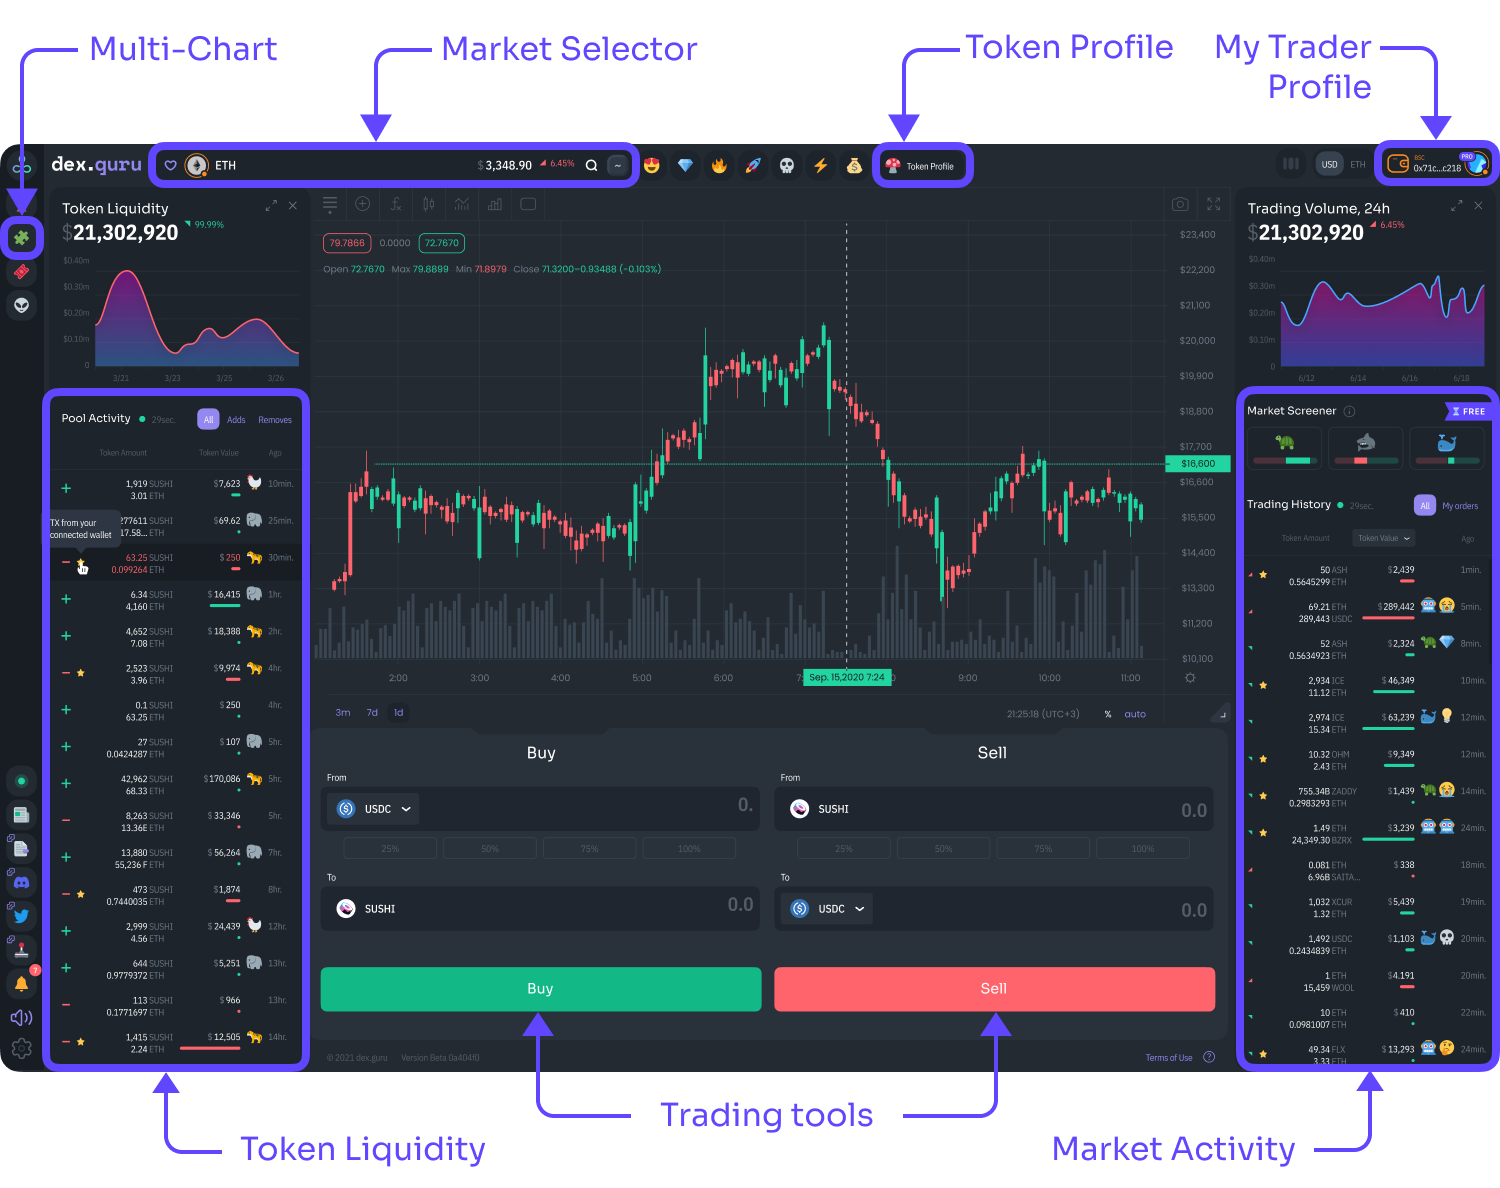
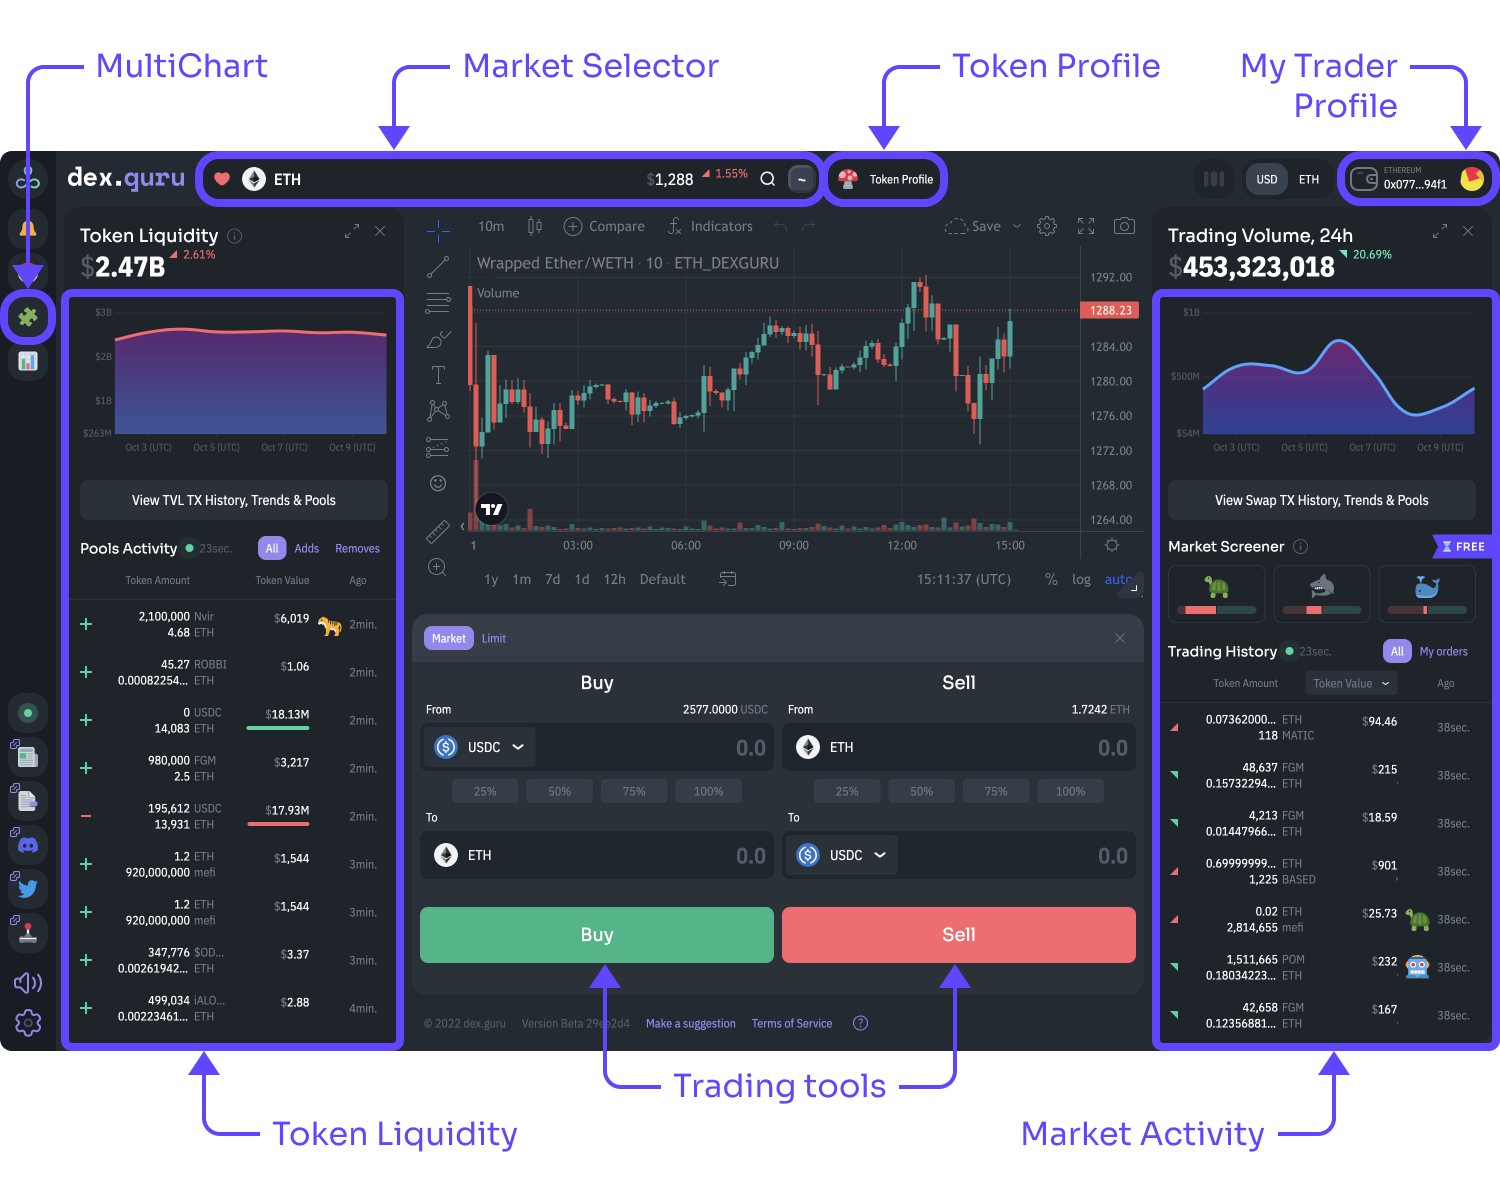
GitBook: [#298] No subject

diff --git a/general/how-to/connect-wallet.md b/general/how-to/connect-wallet.md
@@ -10,7 +10,7 @@ DexGuru is a fully non-custodial platform, so the assets in your wallet are alwa
 
 Click on a wallet icon at the top right corner&#x20;
 
-![](<../../.gitbook/assets/Connect wallet 001.png>)
+<figure><img src="../../.gitbook/assets/001.png" alt=""><figcaption></figcaption></figure>
 
 Choose Metamask&#x20;
 
@@ -22,7 +22,7 @@ We use Signature Requests for authentication. By signing it, you prove that you 
 
 All set:&#x20;
 
-![](<../../.gitbook/assets/Connect wallet 004.png>)
+<figure><img src="../../.gitbook/assets/004.png" alt=""><figcaption></figcaption></figure>
 
 ### WalletConnect
 
@@ -30,7 +30,7 @@ All set:&#x20;
 
 Click on a wallet icon at the top right corner&#x20;
 
-![](<../../.gitbook/assets/Connect wallet 005.png>)
+<figure><img src="../../.gitbook/assets/005.png" alt=""><figcaption></figcaption></figure>
 
 Choose Walletconnect&#x20;
 
@@ -44,7 +44,7 @@ Scan QR code from your screen with a WalletConnect-compatible wallet, and confir
 
 All set:&#x20;
 
-![](<../../.gitbook/assets/Connect wallet 008.png>)
+<figure><img src="../../.gitbook/assets/008 (1).png" alt=""><figcaption></figcaption></figure>
 
 
 

diff --git a/general/features/multi-chart.md b/general/features/multi-chart.md
@@ -4,7 +4,7 @@ description: Analyze and customize multiple token charts inside just one tab.
 
 # Multi-Chart
 
-<figure><img src="../../.gitbook/assets/001.png" alt=""><figcaption></figcaption></figure>
+<figure><img src="../../.gitbook/assets/001 (2).png" alt=""><figcaption></figcaption></figure>
 
 To **open Multi-Chart**, click on the puzzle 🧩 icon in the left navbar.
 
@@ -20,13 +20,13 @@ To **add more charts to the page**, click the “+Add Chart” button in the top
 
 **Group charts together** and name them.
 
-<figure><img src="../../.gitbook/assets/004.png" alt=""><figcaption></figcaption></figure>
+<figure><img src="../../.gitbook/assets/004 (1).png" alt=""><figcaption></figcaption></figure>
 
 
 
 **Create a new group** without losing old group settings.
 
-<figure><img src="../../.gitbook/assets/005.png" alt=""><figcaption></figcaption></figure>
+<figure><img src="../../.gitbook/assets/005 (2).png" alt=""><figcaption></figcaption></figure>
 
 
 

diff --git a/general/how-to/see-my-wallets-balance.md b/general/how-to/see-my-wallets-balance.md
@@ -37,7 +37,7 @@ Wallets like MetaMask display a limited list of standard token balances but do n
 
 Go to your Token Holdings, find the token you want to add to your wallet, and press it. Copy the Contract Address. You will need to add it to your wallet.
 
-![](<../../.gitbook/assets/004 (1).png>)
+![](<../../.gitbook/assets/004 (1) (1).png>)
 
 
 

diff --git a/general/features/trading-history.md b/general/features/trading-history.md
@@ -21,5 +21,5 @@ If we have enough data about the wallet that a trader used, we will add an icon 
 🤖 - Trader with 1000+ TXs in the last 30 days. Most likely a bot.\
 
 
-![](<../../.gitbook/assets/Market Activity 01.png>)
+<figure><img src="../../.gitbook/assets/Market Activity 02.png" alt=""><figcaption></figcaption></figure>
 
